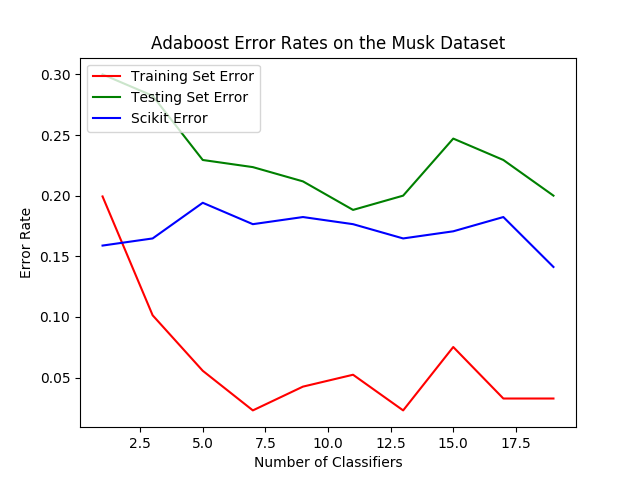
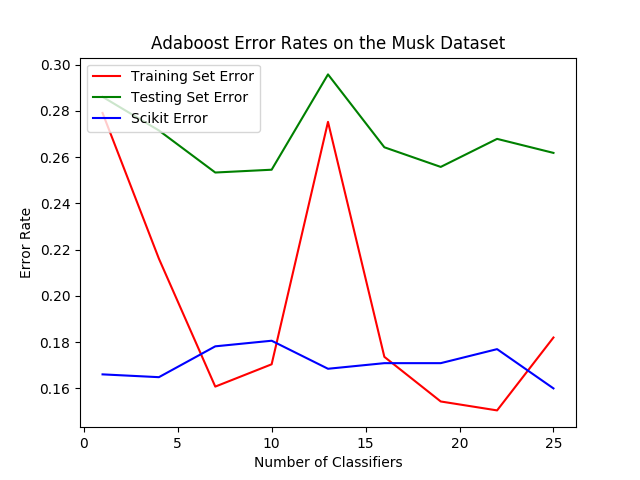
added new graph comparing adaboost with decision trees and single perceptron

diff --git a/proj2/code/adaboost_test.py b/proj2/code/adaboost_test.py
@@ -24,8 +24,8 @@ from adaboost import classifier_error_rate
 # don't forget to toggle load_dataset() as well 
 
 #FILENAME = "dataset/default.csv" 
-FILENAME = "dataset/ionosphere.dat" 
-#FILENAME = "dataset/musk.dat"  
+#FILENAME = "dataset/ionosphere.dat" 
+FILENAME = "dataset/musk.dat"  
 #FILENAME = "dataset/heart.dat"  
 #FILENAME = "dataset/spambase.dat" 
 #FILENAME = "dataset/animals.dat" 
@@ -199,21 +199,51 @@ class ErrorWrapper:
 		return "# of Classifiers {0}, Train Error: {1}, Test Error: {2}, Scikit Error: {3}".format(
 			self.num_classifiers, self.train_error, self.test_error, self.scikit_error)
 
-def adaboost_avg_run(max_classes, avg_num_of_run, dataset):
+def perceptron_avg_run(avg_num_of_run, training_set, testing_set):
+	(train_x, train_y) = split_attribute_and_label(training_set)
+	(test_x, test_y) = split_attribute_and_label(testing_set)
+
+	perceptron_error = []
+	
+	for i in range(avg_num_of_run):
+
+		p = perceptron.Perceptron(max_iter=UPPER_BOUND, verbose=0, random_state=None, 
+								fit_intercept=True, eta0=ETA)
+		p.fit(train_x, train_y)
+		result_list = p.predict(test_x)
+		perceptron_error.append(calculate_error(test_y, result_list))
+
+	return sum(perceptron_error) / len(perceptron_error)
+
+
+def decision_tree_avg_run(avg_num_of_run, training_set, testing_set):
+	(train_x, train_y) = split_attribute_and_label(training_set)
+	(test_x, test_y) = split_attribute_and_label(testing_set)
+
+	# run decision tree classifier avg_num_of_run times
+	decision_tree_error = []
+	for i in range(avg_num_of_run):
+		clf = tree.DecisionTreeClassifier()
+		clf = clf.fit(train_x, train_y)
+		decision_tree_result_list = clf.predict(test_x)
+		decision_tree_error.append(calculate_error(test_y, decision_tree_result_list))
+
+	return sum(decision_tree_error) / len(decision_tree_error)
+
+def adaboost_avg_run(max_classes, avg_num_of_run, training_set, testing_set):
 	testing_error_list = []
 	all_error_list = []
 
-	(training_set,testing_set) = split_dataset(dataset, PROBABILITY_TRAINING_SET)
 	# because datasets sometimes place the class attribute at the end or even 
 	# at the beginning or the middle, we'll separate the attribute vector from
 	# the class-label. also note that this is the way scikit-learn does it. 
 	# train_x: the attribute vector; train_y: the class_label  
 	(train_x, train_y) = split_attribute_and_label(training_set)
 	(test_x, test_y) = split_attribute_and_label(testing_set)
-	print(len(train_x))	
+	# print(len(train_x))	
 	train_subset_num = int(len(train_y) * 0.2) 
 
-	for cl in range(1, max_classes+1, 2):
+	for cl in range(1, max_classes+1, 3):
 		train_error = []
 		testing_error = []
 		scikit_error = []
@@ -278,35 +308,34 @@ def plot_errors(error_list):
 	plt.ylabel('Error Rate')
 	plt.title('Adaboost Error Rates on the {0} Dataset'.format(title))
 	plt.savefig('{0}.png'.format(title))
+	plt.gcf().clear()
 
-def plot_adaboost_vs_tree(error_list):
+def plot_testing_set_errors(error_list, decision_tree_avg_error, perceptron_avg_error):
 	num_classifiers_list = []
-	train_error_list = []
 	test_error_list = []
-	scikit_error_list = []
 
 	tmp = FILENAME.split('/')
 	title = tmp[1].split('.')[0].title()
 	
 	for error in error_list:
 		num_classifiers_list.append(error.num_classifiers)
-		train_error_list.append(error.train_error)
 		test_error_list.append(error.test_error)
-		scikit_error_list.append(error.scikit_error)
 
-	plt.plot(num_classifiers_list, train_error_list, 'r-')
-	plt.plot(num_classifiers_list, test_error_list, 'g-')
-	plt.plot(num_classifiers_list, scikit_error_list, 'b-')
-	plt.legend(['Training Set Error', 'Testing Set Error', 'Scikit Error'], loc = 'upper left')
+	plt.plot(num_classifiers_list, test_error_list, 'r-')
+	plt.axhline(y=decision_tree_avg_error, color='g')
+	plt.axhline(y=perceptron_avg_error, color='b')
+
+	plt.legend(['Testing Set Error', 'Average Error using a Decision Tree', 'Average Error using a Single Perceptron Classifier'], loc = 'upper right')
 	plt.xlabel('Number of Classifiers')
 	plt.ylabel('Error Rate')
-	plt.title('Adaboost Error Rates on the {0} Dataset'.format(title))
-	plt.savefig('{0}.png'.format(title))
+	plt.title('Error Rates with Different Classifiers on the {0} Dataset'.format(title))
+	plt.savefig('{0}_different_classifiers.png'.format(title))
+	plt.gcf().clear()
 
 # preprocessing: load in the dataset and split into a training and testing set 
 #dataset = load_dataset(FILENAME) 
-dataset =load_dataset_ionosphere(FILENAME)
-#dataset =load_dataset_musk(FILENAME)
+#dataset =load_dataset_ionosphere(FILENAME)
+dataset =load_dataset_musk(FILENAME)
 #dataset =load_dataset_heart(FILENAME)
 #dataset =load_dataset_ecoli(FILENAME)
 
@@ -356,9 +385,9 @@ print("their adaboost error on test: %s" % calculate_error(test_y, result_list))
 # test a decision tree 
 clf = tree.DecisionTreeClassifier()
 clf = clf.fit(train_x, train_y)
-result_list = clf.predict(test_x)
+decision_tree_result_list = clf.predict(test_x)
 print("=========")
-print("single tree error rate on testing set: %s" % calculate_error(test_y, result_list))
+print("single tree error rate on testing set: %s" % calculate_error(test_y, decision_tree_result_list))
 print("=========")
 
 # # Create the perceptron object (net)
@@ -401,5 +430,11 @@ print("=========")
 # #average_error_rate = average_for_runs(10, train_subset_num, 10)
 # #print("average error rate : %f" % average_error_rate) 
 
-error_list = adaboost_avg_run(40, 5, dataset)
+# split dataset only once
+(training_set,testing_set) = split_dataset(dataset, PROBABILITY_TRAINING_SET)
+# error_list = adaboost_avg_run(40, 5, training_set, testing_set)
+error_list = adaboost_avg_run(25, 5, training_set, testing_set)
+decision_tree_avg_error = decision_tree_avg_run(5, training_set, testing_set)
+perceptron_avg_error = perceptron_avg_run(5, training_set, testing_set)
 plot_errors(error_list)
+plot_testing_set_errors(error_list, decision_tree_avg_error, perceptron_avg_error)
